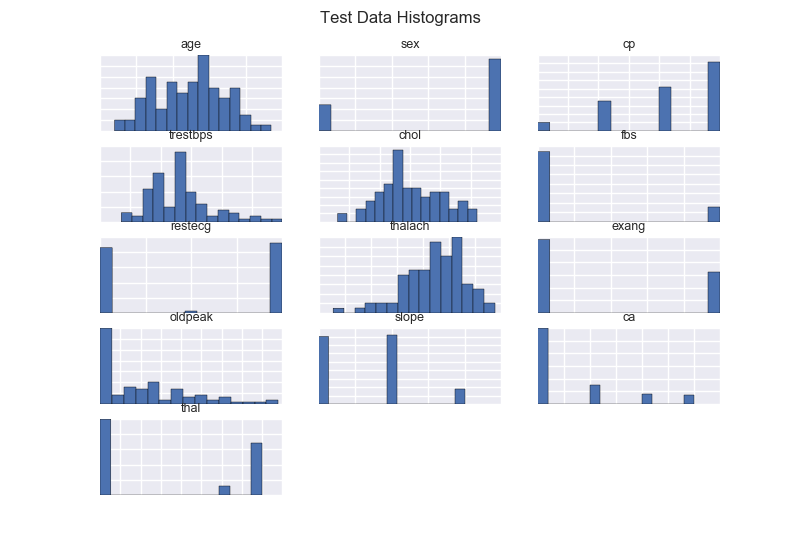
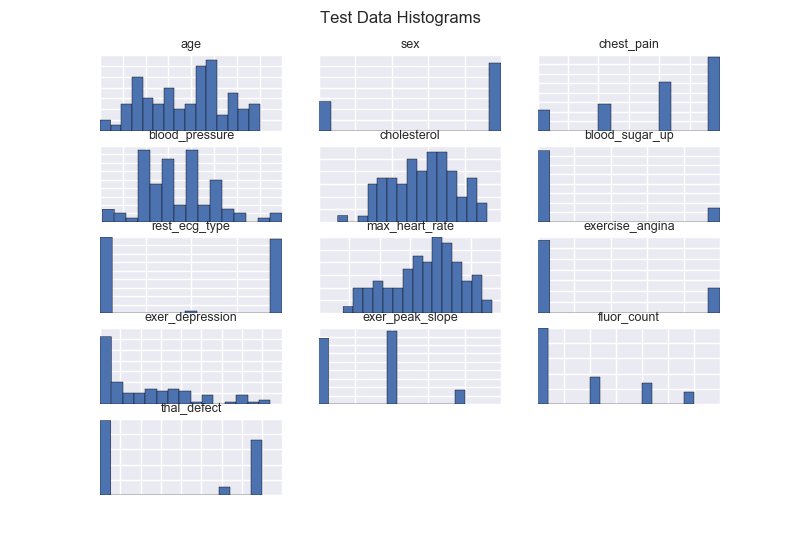
rename columns

diff --git a/coronary_predict.py b/coronary_predict.py
@@ -31,8 +31,11 @@ def read_data(name):
     "Read and clean data from file."
     f = "data/processed.%s.data" % (name)
     print("read %s" % f)
-    col_names = ['age', 'sex', 'cp', 'trestbps', 'chol', 'fbs', 'restecg', 'thalach', \
-        'exang', 'oldpeak', 'slope', 'ca', 'thal', 'risk']
+#    col_names = ['age', 'sex', 'cp', 'trestbps', 'chol', 'fbs', 'restecg', 'thalach', \
+#        'exang', 'oldpeak', 'slope', 'ca', 'thal', 'risk']
+    col_names = ['age', 'sex', 'chest_pain', 'blood_pressure', 'cholesterol', \
+        'blood_sugar_up', 'rest_ecg_type', 'max_heart_rate', 'exercise_angina', \
+        'exer_depression', 'exer_peak_slope', 'fluor_count', 'thal_defect', 'risk']
     df = pd.read_csv(f, names = col_names)
     # check for ? missing values - six in mostly different columns
     # no other non-numeric characters
@@ -85,11 +88,11 @@ def test_incoming(test_X, train_X):
     '''Pretend we have streaming data coming in.  Run a few
        statistical tests on it, see if it's close to training data.'''
     vlist = list(train_X.columns)
-    print("t-test compare train, test data\n    variable  pvalue   Pass")
-    print("    --------  ------   ----")
+    print("t-test compare train, test data\n    variable         pvalue   Pass")
+    print("    ---------------  ------   ----")
     for var in vlist:
         pval = sst.ttest_ind(test_X[var], train_X[var]).pvalue
-        print("    %-8s  %.3f    %s" % (var, pval, pval>0.05))
+        print("    %-15s  %.3f    %s" % (var, pval, pval>0.05))
 #       assert(pval > 0.05)  # in production, assert each column passes
 # if only one or few values at a time, test where they are in train distribution
 # is this a good idea?
